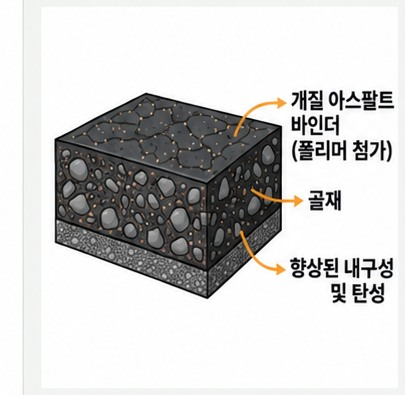
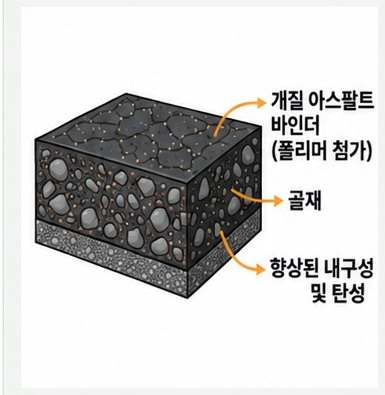
재료 스테퍼 중복 스크립트 제거, 1/4번 단면 이미지 좌측 여백 이중선 아티팩트 수정

Changed region(s): [[0.0623, 0.2127, 0.9974, 0.7899]]

diff --git a/js/script.js b/js/script.js
@@ -264,141 +264,3 @@ siteNav.querySelectorAll("a").forEach((link) => {
     });
   });
 })();
-
-// 아스콘의 재료: 1개씩 자동 전환(5초 간격) + 하단 스테퍼 클릭으로 수동 이동 (장성아스콘 참고)
-(function () {
-  const showcase = document.getElementById("materialShowcase");
-  if (!showcase) return;
-
-  const MATERIALS = [
-    {
-      name: "아스팔트",
-      desc: "아스팔트 바인더, 굵은 골재, 잔골재, 채움재가 알맞은 비율로 배합되어 완성되는 아스팔트 콘크리트(아스콘)입니다.",
-      kind: "intro",
-      circles: [
-        { label: "아스팔트 바인더", img: "img/materials/binder.jpg", goto: 1 },
-        { label: "굵은 골재", img: "img/materials/coarse-aggregate.jpg", goto: 2 },
-        { label: "잔골재", img: "img/materials/fine-aggregate.jpg", goto: 3 },
-        { label: "채움재", img: "img/materials/filler.jpg", goto: 4 },
-      ],
-      img: "img/materials/asphalt.jpg",
-    },
-    {
-      name: "아스팔트 바인더",
-      desc: "석유를 정제하는 과정에서 얻어지는 점성이 높은 흑갈색 물질로, 아스팔트 혼합물에서 골재를 서로 붙여주는 접착재 역할을 합니다.",
-      points: [
-        "골재(자갈·모래 등)와 혼합되어 아스팔트 콘크리트(아스콘)를 구성",
-        "도로의 강도·내구성·방수성을 확보하는 역할",
-        "균열 및 변형에 대한 저항성을 부여하며 차량 하중을 골재에 전달",
-      ],
-      img: "img/materials/binder.jpg",
-    },
-    {
-      name: "굵은 골재",
-      desc: "아스팔트나 콘크리트에 사용되는 입자가 비교적 큰 골재(粗骨材, Coarse Aggregate)입니다.",
-      points: [
-        "차량 하중을 지지하고 아스콘의 구조적 강도 확보",
-        "변형 및 밀림에 대한 저항성 확보",
-        "전체 혼합물의 골격 형성",
-      ],
-      img: "img/materials/coarse-aggregate.jpg",
-    },
-    {
-      name: "잔골재",
-      desc: "굵은골재보다 입자가 작은 모래 또는 쇄석 미립분 등의 골재(細骨材, Fine Aggregate)입니다.",
-      points: [
-        "굵은골재 사이의 빈 공간을 충전, 표면 마감 및 작업성 개선",
-        "골재 간 맞물림을 향상시켜 혼합물의 치밀성 확보",
-      ],
-      img: "img/materials/fine-aggregate.jpg",
-    },
-    {
-      name: "채움재",
-      desc: "골재 사이의 아주 작은 빈 공간을 채워주는 미세한 분말 재료로, 일반적으로 석회석 등을 분쇄하여 사용합니다.",
-      points: [
-        "골재 사이의 미세한 공극 충전",
-        "아스팔트 바인더와 결합하여 매스틱(mastic) 형성",
-        "아스콘의 강도 및 안정성 향상",
-      ],
-      img: "img/materials/filler.jpg",
-    },
-  ];
-
-  const nameEl = document.getElementById("materialName");
-  const descEl = document.getElementById("materialDesc");
-  const extraEl = document.getElementById("materialExtra");
-  const imgEl = document.getElementById("materialImg");
-  const stepperEl = document.getElementById("materialStepper");
-
-  MATERIALS.forEach((m, i) => {
-    const dot = document.createElement("button");
-    dot.type = "button";
-    dot.className = "material-dot" + (i === 0 ? " active" : "");
-    dot.setAttribute("aria-label", m.name);
-    dot.addEventListener("click", () => goTo(i, true));
-    stepperEl.appendChild(dot);
-    if (i < MATERIALS.length - 1) {
-      const line = document.createElement("span");
-      line.className = "material-dot-line";
-      stepperEl.appendChild(line);
-    }
-  });
-  const dots = stepperEl.querySelectorAll(".material-dot");
-
-  let current = 0;
-  let timer = null;
-
-  function render(index) {
-    const m = MATERIALS[index];
-    imgEl.classList.remove("is-visible");
-    showcase.classList.remove("is-visible");
-    window.setTimeout(() => {
-      nameEl.textContent = m.name;
-      descEl.textContent = m.desc;
-      extraEl.innerHTML = "";
-      if (m.kind === "intro") {
-        const wrap = document.createElement("div");
-        wrap.className = "material-circles";
-        m.circles.forEach((c) => {
-          const item = document.createElement("button");
-          item.type = "button";
-          item.className = "material-circle-item";
-          item.innerHTML =
-            '<span class="material-circle"><img src="' + c.img + '" alt="' + c.label + '"></span>' +
-            '<span class="material-circle-label">' + c.label + "</span>";
-          item.addEventListener("click", () => goTo(c.goto, true));
-          wrap.appendChild(item);
-        });
-        extraEl.appendChild(wrap);
-      } else {
-        const ul = document.createElement("ul");
-        ul.className = "material-points";
-        m.points.forEach((pt) => {
-          const li = document.createElement("li");
-          li.textContent = pt;
-          ul.appendChild(li);
-        });
-        extraEl.appendChild(ul);
-      }
-      imgEl.src = m.img;
-      imgEl.alt = m.name;
-      showcase.classList.add("is-visible");
-    }, 200);
-    imgEl.onload = () => imgEl.classList.add("is-visible");
-    dots.forEach((d, i) => d.classList.toggle("active", i === index));
-  }
-
-  function goTo(index, manual) {
-    current = (index + MATERIALS.length) % MATERIALS.length;
-    render(current);
-    if (manual) restartTimer();
-  }
-
-  function restartTimer() {
-    if (timer) window.clearInterval(timer);
-    timer = window.setInterval(() => goTo(current + 1, false), 5000);
-  }
-
-  render(0);
-  restartTimer();
-})();
